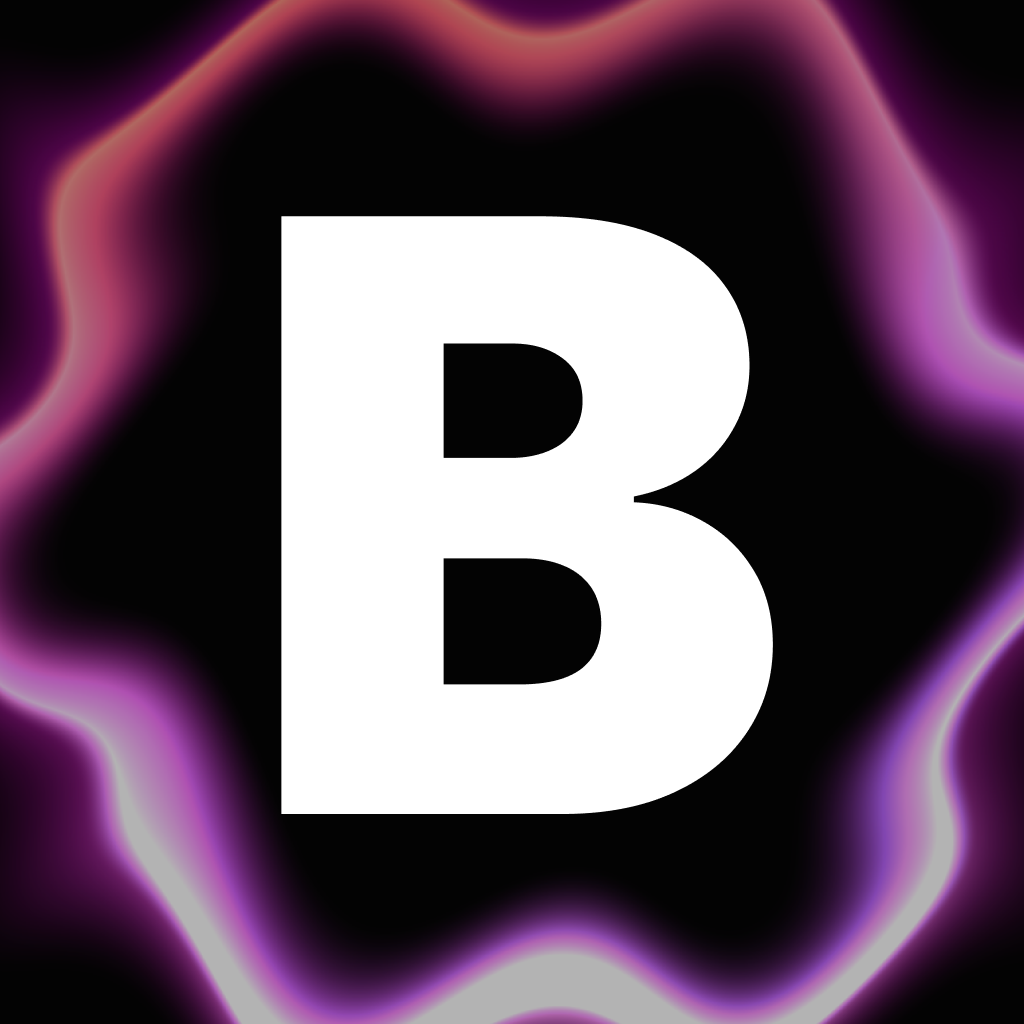
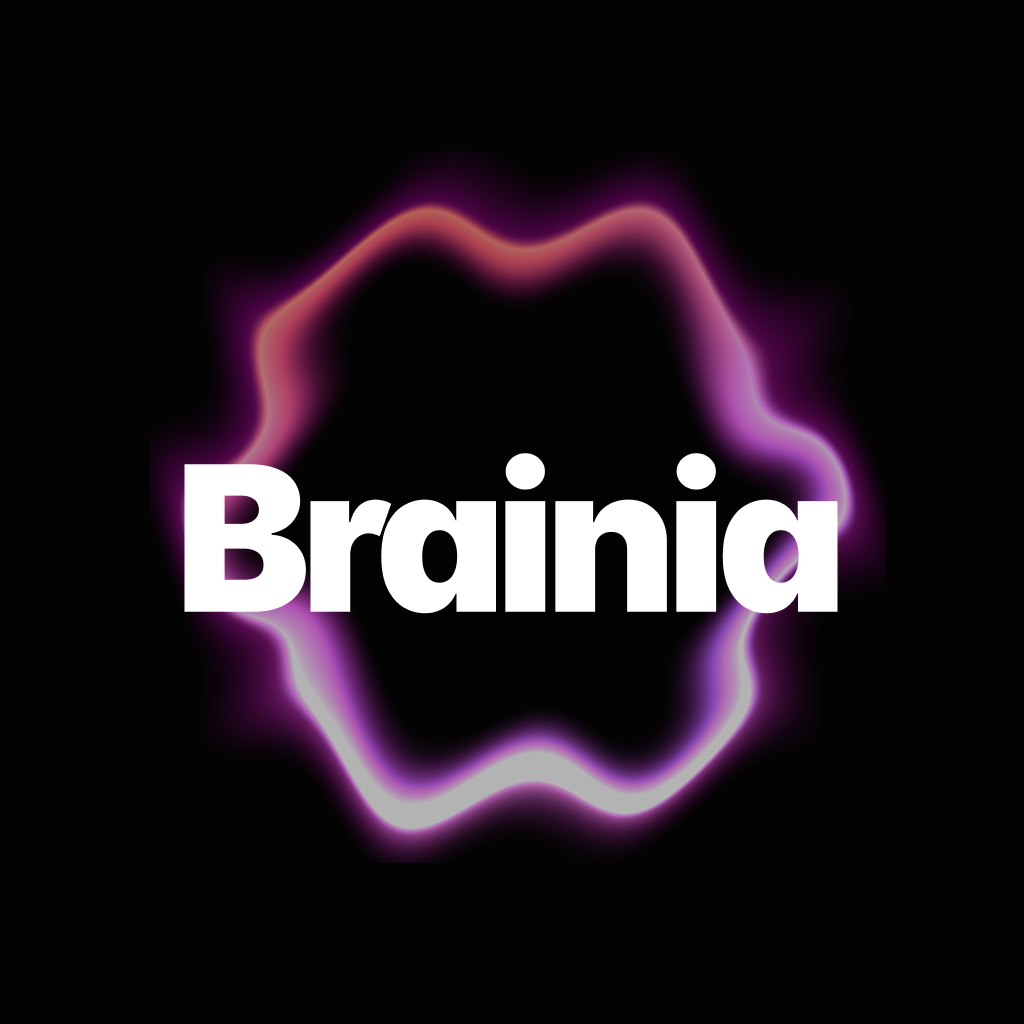
feat: implement initial browser extension popup with authentication, tab saving, and note-taking functionality, alongside new UI components.

diff --git a/components/ItemModal/ItemModal.module.css b/components/ItemModal/ItemModal.module.css
@@ -45,7 +45,7 @@
 }
 
 .compactModal {
-    height: auto;
+    height: 75vh;
     max-height: 700px;
     width: 1000px;
 }
@@ -294,6 +294,9 @@
     display: flex;
     flex-direction: column;
     background: var(--modal-bg);
+    height: 100%;
+    overflow: hidden;
+    position: relative;
 }
 
 /* --- RIGHT COLUMN SECTIONS --- */
@@ -305,6 +308,7 @@
     justify-content: space-between;
     align-items: flex-start;
     gap: 16px;
+    flex-shrink: 0;
 }
 
 .captureTitleSection {
@@ -484,8 +488,17 @@
     padding: 24px;
     display: flex;
     flex-direction: column;
-    gap: 24px;
+    gap: 16px;
     padding-bottom: 40px;
+    min-height: 0;
+}
+
+.scrollBody>.section {
+    flex-shrink: 0;
+}
+
+.scrollBody>.descriptionSection {
+    flex-shrink: 1;
 }
 
 /* Vertical Note Layout Styles */
@@ -721,52 +734,31 @@
 /* --- FOOTER --- */
 
 .footer {
-    padding: 24px;
+    padding: 20px 24px;
     border-top: 1px solid var(--border-light);
-    display: flex;
-    justify-content: space-between;
-    align-items: center;
-    background: var(--modal-bg);
-    backdrop-filter: blur(16px);
-}
-
-.footerLeft {
     display: flex;
     gap: 12px;
     align-items: center;
-}
-
-.convertBtn {
-    background: var(--card-bg);
-    border: 1px solid var(--border-light);
-    color: var(--text-dim);
-    padding: 10px 16px;
-    border-radius: 12px;
-    font-size: 0.85rem;
-    font-weight: 600;
-    cursor: pointer;
-    transition: all 0.2s;
-}
-
-.convertBtn:hover {
-    background: rgba(255, 255, 255, 0.08);
-    color: var(--foreground);
-    border-color: rgba(255, 255, 255, 0.2);
+    background: var(--modal-bg);
+    backdrop-filter: blur(16px);
+    flex-shrink: 0;
 }
 
 .deleteBtn {
+    flex: 1;
     background: rgba(225, 29, 72, 0.05);
     color: var(--danger);
     border: 1px solid rgba(225, 29, 72, 0.15);
-    padding: 10px 20px;
+    padding: 12px;
     border-radius: 12px;
-    font-weight: 600;
-    font-size: 0.85rem;
+    font-weight: 650;
+    font-size: 0.9rem;
     cursor: pointer;
     transition: all 0.2s;
     display: flex;
     align-items: center;
-    gap: 8px;
+    justify-content: center;
+    gap: 10px;
 }
 
 .deleteBtn:hover {
@@ -776,16 +768,20 @@
 }
 
 .archiveBtn {
+    flex: 1;
     background: var(--card-bg);
-    color: var(--text-dim);
+    color: var(--text-muted);
     border: 1px solid var(--border-light);
-    padding: 10px;
+    padding: 12px;
     border-radius: 12px;
+    font-weight: 650;
+    font-size: 0.9rem;
     cursor: pointer;
     transition: all 0.3s cubic-bezier(0.16, 1, 0.3, 1);
     display: flex;
     align-items: center;
     justify-content: center;
+    gap: 10px;
 }
 
 .archiveBtn:hover {
@@ -795,29 +791,10 @@
     box-shadow: 0 0 15px var(--accent-glow);
 }
 
-.saveBtn {
-    background: var(--accent);
-    color: white;
-    border: none;
-    padding: 12px 28px;
-    font-weight: 700;
-    border-radius: 14px;
-    cursor: pointer;
-    display: flex;
-    align-items: center;
-    gap: 10px;
-    box-shadow: 0 8px 16px var(--accent-glow);
-    transition: all 0.3s cubic-bezier(0.16, 1, 0.3, 1);
-}
-
-.saveBtn:hover {
-    transform: translateY(-2px);
-    box-shadow: 0 12px 24px var(--accent-glow);
-    filter: brightness(1.1);
-}
-
-.saveBtn:active {
-    transform: translateY(1px);
+.confirmDelete {
+    background: var(--danger) !important;
+    color: white !important;
+    box-shadow: 0 4px 12px rgba(225, 29, 72, 0.3) !important;
 }
 
 /* --- MOBILE & COMPACT OVERRIDES --- */
@@ -953,6 +930,10 @@
 
     .section {
         gap: 4px !important;
+    }
+
+    .descriptionSection {
+        margin-bottom: 24px !important;
     }
 }
 

diff --git a/components/ItemModal/ItemModal.tsx b/components/ItemModal/ItemModal.tsx
@@ -137,6 +137,12 @@ export default function ItemModal({ itemId, onClose }: ItemModalProps) {
         };
     }, [title, description, content]);
 
+    const hasChanged = item && (
+        title !== (item.metadata?.title || '') ||
+        description !== (item.metadata?.description || '') ||
+        content !== item.content
+    );
+
     useEffect(() => {
         const checkOverflow = () => {
             if (titleRef.current) {
@@ -448,7 +454,7 @@ export default function ItemModal({ itemId, onClose }: ItemModalProps) {
                                 </div>
                             </div>
 
-                            <div className={styles.section}>
+                            <div className={clsx(styles.section, styles.descriptionSection)}>
                                 <div className={styles.labelRow}>
                                     <span className={styles.label}>Notes</span>
                                 </div>
@@ -462,11 +468,18 @@ export default function ItemModal({ itemId, onClose }: ItemModalProps) {
                         </div>
 
                         <div className={styles.footer}>
-                            <div className={styles.footerLeft}>
-                                <button className={styles.deleteBtn} onClick={handleDelete} onMouseLeave={() => setIsDeleting(false)}>{isDeleting ? "Confirm?" : <Trash2 size={16} />}</button>
-                                <button className={styles.archiveBtn} onClick={handleArchive}><Archive size={16} /></button>
-                            </div>
-                            <button className={styles.saveBtn} onClick={handleSave}><Save size={16} /> Save</button>
+                            <button className={styles.archiveBtn} onClick={handleArchive}>
+                                <Archive size={18} />
+                                <span>Archive</span>
+                            </button>
+                            <button
+                                className={clsx(styles.deleteBtn, isDeleting && styles.confirmDelete)}
+                                onClick={handleDelete}
+                                onMouseLeave={() => setIsDeleting(false)}
+                            >
+                                <Trash2 size={18} />
+                                <span>{isDeleting ? "Confirm?" : "Delete"}</span>
+                            </button>
                         </div>
                     </div>
                 </div>

diff --git a/extension/popup.js b/extension/popup.js
@@ -72,6 +72,7 @@ const tabUrl = document.getElementById('tab-url');
 
 const saveTabBtn = document.getElementById('save-tab-btn');
 const addNoteBtn = document.getElementById('add-note-btn');
+const userEmailDisplay = document.getElementById('user-email');
 const logoutBtn = document.getElementById('logout-btn');
 
 const backBtn = document.getElementById('back-btn');
@@ -128,6 +129,7 @@ async function init() {
         state.user = session.user;
         statusDot.classList.add('connected');
         statusDot.title = "Connected";
+        if (userEmailDisplay) userEmailDisplay.textContent = state.user.email;
         navigate('main');
     } else {
         navigate('auth');
@@ -151,6 +153,9 @@ function navigate(viewName) {
         mainView.classList.remove('hidden');
         saveTabBtn.disabled = false;
         addNoteBtn.disabled = false;
+        if (userEmailDisplay && state.user) {
+            userEmailDisplay.textContent = state.user.email;
+        }
         updateTabInfo(); // Refresh on navigation to main
     }
     if (viewName === 'note') {
@@ -318,7 +323,16 @@ saveTabBtn.addEventListener('click', async () => {
 
 addNoteBtn.addEventListener('click', () => {
     navigate('note');
+    saveNoteBtn.classList.add('inactive'); // Reset to inactive
     setTimeout(() => noteInput.focus(), 100);
+});
+
+noteInput.addEventListener('input', () => {
+    if (noteInput.value.trim().length > 0) {
+        saveNoteBtn.classList.remove('inactive');
+    } else {
+        saveNoteBtn.classList.add('inactive');
+    }
 });
 
 backBtn.addEventListener('click', () => {
@@ -500,4 +514,4 @@ function initOrb(selector, options = {}) {
 // Start
 init();
 initOrb('#orb-bg', { isBackground: true });
-initOrb('.logo-orb-wrapper', { isBackground: false });
+// initOrb('.logo-orb-wrapper', { isBackground: false }); - Removed per request

diff --git a/extension/popup.css b/extension/popup.css
@@ -67,32 +67,15 @@ header {
 .logo {
     display: flex;
     align-items: center;
-    gap: 8px;
-}
-
-.logo-orb-wrapper {
-    width: 24px;
-    height: 24px;
-    position: relative;
-    display: flex;
-    align-items: center;
-    justify-content: center;
-    margin-right: -2px;
-}
-
-.logo-orb-wrapper canvas {
-    width: 100% !important;
-    height: 100% !important;
-    position: relative !important;
-    top: auto !important;
-    left: auto !important;
-    opacity: 1 !important;
-    filter: none !important;
 }
 
 h1 {
-    font-size: 16px;
-    font-weight: 600;
+    font-size: 20px;
+    font-weight: 850;
+    letter-spacing: -0.04em;
+    color: var(--text);
+    margin: 0;
+    line-height: 1;
 }
 
 .status-dot {
@@ -187,6 +170,14 @@ button {
     background: #ddd;
 }
 
+button.inactive {
+    background: rgba(255, 255, 255, 0.05);
+    color: var(--text-muted);
+    border: 1px solid var(--border);
+    cursor: default;
+    pointer-events: none;
+}
+
 .secondary-btn {
     background: transparent;
     border: 1px solid var(--border);
@@ -197,11 +188,19 @@ button {
     background: rgba(255, 255, 255, 0.05);
 }
 
+.user-email {
+    font-size: 11px;
+    text-align: center;
+    color: var(--text-muted);
+    margin-top: 12px;
+    opacity: 0.7;
+}
+
 .text-btn {
     background: transparent;
     color: var(--text-muted);
-    font-size: 12px;
-    margin-top: auto;
+    font-size: 11px;
+    margin-top: 2px;
 }
 
 .text-btn:hover {

diff --git a/extension/popup.html b/extension/popup.html
@@ -13,7 +13,6 @@
     <div id="app">
         <header>
             <div class="logo">
-                <div class="logo-orb-wrapper"></div>
                 <h1>Brainia</h1>
             </div>
             <div id="status-indicator" class="status-dot tooltip" title="Connecting..."></div>
@@ -52,6 +51,7 @@
                     <span class="btn-text">Save Current Tab</span>
                 </button>
                 <button id="add-note-btn" class="secondary-btn">Add Quick Note</button>
+                <div id="user-email" class="user-email"></div>
                 <button id="logout-btn" class="text-btn">Sign Out</button>
             </div>
         </div>

diff --git a/components/Header/Header.module.css b/components/Header/Header.module.css
@@ -46,8 +46,8 @@
     letter-spacing: -0.03em;
     font-family: var(--font-outfit), sans-serif;
     transition: all 0.3s ease;
-    transform: translateY(-3.5px);
-    /* Shift text up */
+    transform: translateY(0);
+    /* Removed the shift-up */
 }
 
 .logo:hover h1 {
